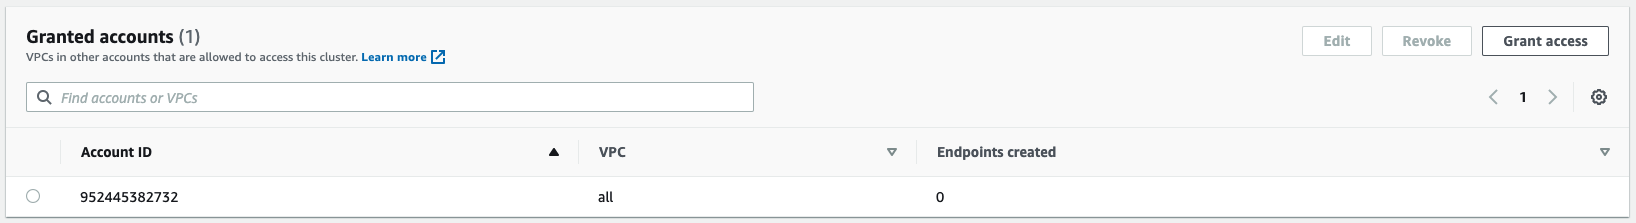
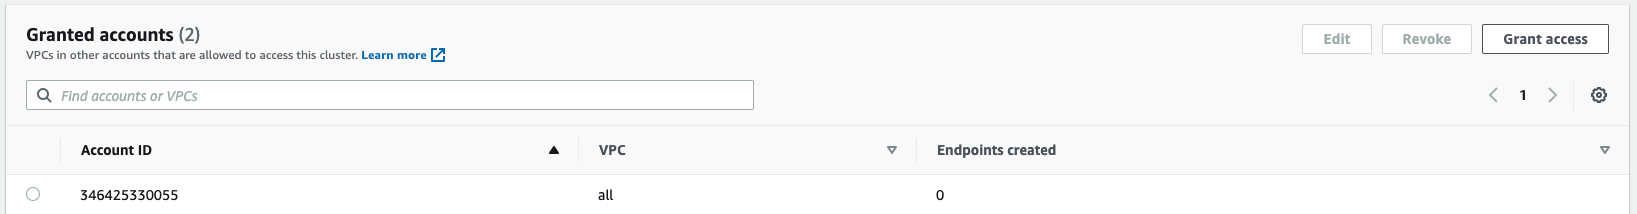
updates to multi-tenant privatelink setup instructions

diff --git a/website/docs/docs/get-started/privatelink/redshift-privatelink.md b/website/docs/docs/get-started/privatelink/redshift-privatelink.md
@@ -5,8 +5,13 @@ description: "Configuring PrivateLink for Redshift"
 sidebar_label: "PrivateLink for Redshift"
 ---
 
+AWS provides two different ways to create a PrivateLink VPC endpoint for a Redshift cluster that is running in another VPC: 
+- [Redshift-managed PrivateLink Endpoints](https://docs.aws.amazon.com/redshift/latest/mgmt/managing-cluster-cross-vpc.html)
+- [Redshift Interface-type PrivateLink Endpoints](https://docs.aws.amazon.com/redshift/latest/mgmt/security-private-link.html)
 
-The first step is to grant access to dbt Cloud in the Redshift database cluster:
+dbt Cloud supports both types of endpoints, but there are a number of [considerations](https://docs.aws.amazon.com/redshift/latest/mgmt/managing-cluster-cross-vpc.html#managing-cluster-cross-vpc-considerations) to take into account when deciding which endpoint type to use. Redshift-managed provides a far simpler setup with no additional cost, which might make it the preferred option for many, but may not be an option in all environments. Based on these criteria, you will need to determine which is the right type for your system. Follow the instructions from the section below that corresponds to your chosen endpoint type.
+
+## Configuring Redshift-managed PrivateLink
 
 1. On the running Redshift cluster, select the **Properties** tab.
 
@@ -16,63 +21,79 @@ The first step is to grant access to dbt Cloud in the Redshift database cluster:
 
 <Lightbox src="/img/docs/dbt-cloud/redshiftprivatelink2.png" title="Redshift granted accounts"/>
 
-3. Enter the AWS account ID:
+3. Enter the AWS account ID: `346425330055` - _NOTE: This account ID only applies to dbt Cloud Multi-Tenant environments. For Virtual Private/Single-Tenant account IDs please contact [Support](https://docs.getdbt.com/guides/legacy/getting-help#dbt-cloud-support)._
 
-- Use `346425330055` for multi-tenant deployment environments in dbt Cloud
-- Use `952445382732` for single-tenant deployment environments in dbt Cloud
-
-Optionally, provide the VPC ID for the single-tenant instance or regional multi-tenant PrivateLink VPC. Otherwise, choose **Grant access to all VPCs**.
+4. Choose **Grant access to all VPCs** &mdash;or&mdash; (optional) contact [Support](https://docs.getdbt.com/guides/legacy/getting-help#dbt-cloud-support) for regional VPC ID to designate in **Grant access to specific VPCs**
 
 <Lightbox src="/img/docs/dbt-cloud/redshiftprivatelink3.png" title="Redshift grant access"/>
 
-4. Then, contact the dbt Cloud support team and provide them with your:
+5. Add the required information to the template below, and submit your request to [dbt Support](https://docs.getdbt.com/guides/legacy/getting-help#dbt-cloud-support):
 
-- Cluster name
-- AWS account ID (where the Redshift cluster is hosted)
-- Cluster AWS region
+```
+Subject: New Multi-Tenant PrivateLink Request
+- Type: Redshift-managed
+- Redshift cluster name:
+- Redshift cluster AWS account ID:
+- Redshift cluster AWS Region (`us-east-1`, `eu-west-2`, etc.):
+- dbt Cloud multi-tenant environment (US, EMEA, AU):
+```
 
-## Configuring Interface VPC PrivateLink
+dbt Labs will work on your behalf to complete the PrivateLink setup. Please allow 1-2 business days for this process to complete. Support will contact you when the service is available.
 
+## Configuring Redshift Interface-type PrivateLink
+
+### 1. Provision AWS Resources
 
 Creating an Interface VPC PrivateLink connection requires creating multiple AWS resources in the account containing the Redshift cluster:
 
 - **Security Group** &mdash; If you are connecting to an existing Redshift cluster, this likely already exists, however, you might need to add or modify Security Group rules to accept traffic from the Network Load Balancer (NLB) created for this Endpoint Service.
-- **Target Group** &mdash; The Target Group gets attached to the NLB to tell it where to route requests. There are various target types available for NLB Target Groups, but you will use the IP address.
+- **Target Group** &mdash; The Target Group will be attached to the NLB to tell it where to route requests. There are various target types available for NLB Target Groups, but you will use the IP address.
     
-Use IP addresses from the Redshift cluster’s **Network Interfaces**, _not_ IPs listed in the **Node IP addresses** section as those can change.
+    - Target Type: **IP**
 
-There is likely only one Network Interface (NI) to start, but if the cluster fails over to another availability zone (AZ), a new NI will be created for that AZ as well. The NI IP from the original AZ should still work, but the new NI IP can also be added to the Target Group if desired. Just note that the NLB will need to add that AZ as well. Once created, an NI shouldn't change (this is our observation from testing, but is not officially documented anywhere).
+        Notes:
+        - Use IP addresses from the Redshift cluster’s **Network Interfaces**, _not_ IPs listed in the **Node IP addresses** section as those can change.
+        <Lightbox src="/img/docs/dbt-cloud/redshiftprivatelink4.png" title="Target type: IP address"/>
 
-The cluser must be configured to use TCP protocol. 
+        - There is likely only one Network Interface (NI) to start, but if the cluster fails over to another availability zone (AZ), a new NI will be created for that AZ as well. The NI IP from the original AZ should still work, but the new NI IP can also be added to the Target Group if desired. Just note that the NLB will need to add that AZ as well. Once created, an NI shouldn't change (this is our observation from testing, but is not officially documented anywhere).
 
-<Lightbox src="/img/docs/dbt-cloud/redshiftprivatelink4.png" title="Target type: IP address"/>
+    - Target Group protocol: **TCP** 
 
-- Network Load Balancer (NLB) &mdash; Requires creating a Listener that attaches to the newly created Target Group for port `5439`
-- Endpoint Service &mdash; Attach to the newly created NLB.
-    - Acceptance required (optional) &mdash; Requires you to [accept our connection request](https://www.notion.so/Redshift-Interface-PrivateLink-Setup-Guide-dabac5da3f7c4b0b91716b37820f5aeb) after dbt creates the endpoint.
-    - Private DNS name (optional) &mdash; This hasn't been tested and might not be supported. Please contact dbt Cloud support if you require this field. 
+- **Network Load Balancer (NLB)** &mdash; Requires creating a Listener that attaches to the newly created Target Group for port `5439`
+- **VPC Endpoint Service** &mdash; Attach to the newly created NLB.
+    - Acceptance required (optional) &mdash; Requires you to [accept our connection request](https://docs.aws.amazon.com/vpc/latest/privatelink/configure-endpoint-service.html#accept-reject-connection-requests) after dbt creates the endpoint.
 
-### Grant AWS account access to the VPC
+### 2. Grant dbt AWS Account access to the VPC Endpoint Service
 
 On the provisioned VPC endpoint service, click the **Allow principals** tab. Click **Allow principals** to grant access. Enter the ARN of the root user in the appropriate production AWS account and save your changes.
 
-| Type | Principal |
-| --- | --- |
-| Single-Tenant Prod | arn:aws:iam::952445382732:root |
-| Multi-Tenant Prod | arn:aws:iam::346425330055:root |
+ - Principal: `arn:aws:iam::346425330055:root`
 
 <Lightbox src="/img/docs/dbt-cloud/redshiftprivatelink5.png" title="Enter ARN"/>
+
+### 3. Obtain VPC Endpoint Service Name
 
 Once the VPC Endpoint Service is provisioned, you can find the service name in the AWS console by navigating to **VPC** → **Endpoint Services** and selecting the appropriate endpoint service. You can copy the service name field value and include it in your communication to dbt Cloud support.
 
 <Lightbox src="/img/docs/dbt-cloud/redshiftprivatelink6.png" title="Get service name field value"/>
 
-## Configuring new endpoints with PrivateLink
+### 4. Add the required information to the template below, and submit your request to [dbt Support](https://docs.getdbt.com/guides/legacy/getting-help#dbt-cloud-support):
+```
+Subject: New Multi-Tenant PrivateLink Request
+- Type: Redshift Interface-type
+- VPC Endpoint Service Name:
+- Redshift cluster AWS Region (`us-east-1`, `eu-west-2`, etc.):
+- dbt Cloud multi-tenant environment (US, EMEA, AU):
+```
+
+dbt Labs will work on your behalf to complete the PrivateLink setup. Please allow 1-2 business days for this process to complete. Support will contact you when the endpoint is available.
+
+## Create Connection in dbt Cloud
 
 Once dbt Cloud support completes the configuration, you can start creating new connections using PrivateLink.
 
 1. Navigate to **settings** → **Create new project** → select **Redshift**
-2. Select **Private** for a private connection.
-3. Select the private endpoint from the dropdown. When you do this, dbt Cloud automatically populates the hostname/account field.
+2. You will see two radio buttons: **Public** and **Private.** Select **Private**. 
+3. Select the private endpoint from the dropdown (this will automatically populate the hostname/account field).
 4. Configure the remaining data platform details.
 5. Test your connection and save it.

diff --git a/website/docs/docs/get-started/privatelink/about-privatelink.md b/website/docs/docs/get-started/privatelink/about-privatelink.md
@@ -8,46 +8,12 @@ sidebar_label: "About PrivateLink"
 This feature is currently in Private Preview, and these instructions are specific to dbt Cloud multi-tenant environments on AWS. 
 :::
 
-PrivateLink enables you to connect your data platform hosted on AWS to a dbt Cloud multi-tenant environment over the AWS backbone using the PrivateLink technology. PrivateLink allows dbt Cloud customers to meet security and compliance controls as it restricts information shared between dbt Cloud and the data platform from reaching the public internet. This feature is supported in most regions across NA, Europe, and Asia, but [contact us](https://www.getdbt.com/contact/) if you have questions about availability. 
+PrivateLink enables a private connection from dbt Cloud multi-tenant environment to your data platform hosted on AWS using [AWS PrivateLink](https://aws.amazon.com/privatelink/) technology. PrivateLink allows dbt Cloud customers to meet security and compliance controls as it restricts information shared between dbt Cloud and your data platform from traversing the public internet. This feature is supported in most regions across NA, Europe, and Asia, but [contact us](https://www.getdbt.com/contact/) if you have questions about availability. 
 
-To learn more, refer to the [AWS PrivateLink documentation](https://aws.amazon.com/privatelink/).
+### Configuring PrivateLink
 
-dbt Cloud supports these data platforms that you can use the AWS PrivateLink feature with: 
-
-- Redshift
-- Snowflake
-- Databricks
-
-## Configure PrivateLink
-
-You need to contact the dbt Cloud support team to complete the integration. It is not a self-service feature at this time. Ensure that the subject contains "Multi-tenant PrivateLink" in some form. Please allow 1-2 business days for our teams to complete the setup on our side. 
-
-### Set up
-
-dbt provisions the infrastructure pieces to ensure there are PrivateLink endpoints for a given account. Enabling this ensures connections can be configured as _private_ and only communicates with the data platform over a PrivateLink. Once enabled, there are two available data platform connection types in dbt Cloud: public and private. 
-
-Public connections are the classic connections that work today which communicate with the data warehouse over the public internet. Private connections are secured by PrivateLink and will always guarantee that all connections to the data platform are secured with AWS PrivateLink. dbt Cloud support configures the private endpoints on the backend once the infrastructure team provisions all the required services. Please contact them with your organization name and which instance it's hosted in (such as EMEA, NA, and AU).  
-
-Provide the support team with the following information: 
-
-- dbt Cloud Account ID
-- Data platform (such as Snowflake and Redshift)
-- PrivateLink name
-- Number of endpoints &mdash; Typically you only need one but if you have multiple warehouses or projects that require their own PrivateLink, you may need multiple endpoints.
-- Any additional information specific to your data platform. 
-
-Instructions for configuring the various data platform providers are unique. The following guides outline the steps:
+dbt Cloud supports the following data platforms for use with the PrivateLink feature. Instructions for enabling PrivateLink for the various data platform providers are unique. The following guides will walk you through the necessary steps, including working with [dbt Support](https://docs.getdbt.com/guides/legacy/getting-help#dbt-cloud-support) to complete the connection in the dbt private network and setting up the endpoint in dbt Cloud.
 
 - [Redshift](/redshift-privatelink)
 - [Snowflake](/snowflake-privatelink)
 - [Databricks](/databricks-privatelink)
-
-### Configure new endpoints with PrivateLink
-
-Once dbt Cloud support completes the configuration, you can begin creating new connections using PrivateLink: 
-
-1. Navigate to **Settings** → **Create new project** → select the supported data platform (Snowflake/Databricks/Redshift). 
-2. Select **Private** for a private connection.
-3. Select the private endpoint from the dropdown. When you do this, dbt Cloud automatically populates the hostname/account field.
-4. Configure the remaining data platform details.
-5. Test your connection and save it.

diff --git a/website/docs/docs/get-started/privatelink/snowflake-privatelink.md b/website/docs/docs/get-started/privatelink/snowflake-privatelink.md
@@ -5,25 +5,37 @@ description: "Configuring PrivateLink for Snowflake"
 sidebar_label: "PrivateLink for Snowflake"
 ---
 
+The following steps will walk you through the setup of a Snowflake AWS PrivateLink endpoint in the dbt Cloud multi-tenant environment.
 
-To complete the PrivateLink connection between the dbt and your private networks, first contact dbt Labs support to obtain the AWS or Azure `resource ID`. 
+## Configure PrivateLink
 
-Then, you must open a support case with Snowflake so they can grant access to dbt’s account or subscription. Snowflake teams prefer that you open these support cases directly, rather than dbt Labs acting on your behalf. For more information, you can refer to [Snowflake's article about setting up](https://community.snowflake.com/s/article/HowtosetupPrivatelinktoSnowflakefromCloudServiceVendors). Provide them with your dbt Cloud account ID along with any other information requested in the article. 
-
-You need to have `ACCOUNTADMIN` access to the Snowflake instance to complete these steps.
+1. Open a support case with Snowflake to allow access from the dbt Cloud AWS account
+- Snowflake prefers that the account owner opens the support case directly, rather than dbt Labs acting on their behalf. For more information, you can refer to [Snowflake's knowledge base article](https://community.snowflake.com/s/article/HowtosetupPrivatelinktoSnowflakefromCloudServiceVendors)
+- Provide them with your dbt Cloud account ID along with any other information requested in the article.
+  - AWS account ID: `346425330055` - _NOTE: This account ID only applies to dbt Cloud Multi-Tenant environments. For Virtual Private/Single-Tenant account IDs please contact [Support](https://docs.getdbt.com/guides/legacy/getting-help#dbt-cloud-support)._
+- You need to have `ACCOUNTADMIN` access to the Snowflake instance to complete these steps.
 
 <Lightbox src="/img/docs/dbt-cloud/snowflakeprivatelink1.png" title="Open snowflake case"/>
 
-Run the Snowflake system function [SYSTEM$GET_PRIVATELINK_CONFIG](https://docs.snowflake.com/en/sql-reference/functions/system_get_privatelink_config.html) and provide the output to the dbt Labs support team. 
+2. Run the Snowflake system function [SYSTEM$GET_PRIVATELINK_CONFIG](https://docs.snowflake.com/en/sql-reference/functions/system_get_privatelink_config.html) and copy the output
 
-dbt Labs will work on your behalf to complete the PrivateLink setup. Please allow 1-2 business days for this process to complete. Support will contact you when the service is available. 
+3. Add the required information to the template below, and submit your request to  [dbt Support](https://docs.getdbt.com/guides/legacy/getting-help#dbt-cloud-support):
 
-## Configure new endpoints with PrivateLink
+```
+Subject: New Multi-Tenant PrivateLink Request
+- Type: Snowflake
+- SYSTEM$GET_PRIVATELINK_CONFIG output:
+- dbt Cloud multi-tenant environment (US, EMEA, AU):
+```
+
+dbt Labs will work on your behalf to complete the PrivateLink setup. Please allow 1-2 business days for this process to complete. Support will contact you when the endpoint is available. 
+
+## Create Connection in dbt Cloud
 
 Once dbt Cloud support completes the configuration, you can start creating new connections using PrivateLink. 
 
-1. Navigate to settings → Create new project → select Redshift
-2. Select **Private** for a private connection.
-3. Select the private endpoint from the dropdown. When you do this, dbt Cloud automatically populates the hostname/account field.
+1. Navigate to **Settings** → **Create new project** → select **Snowflake**. 
+2. You will see two radio buttons: **Public** and **Private.** Select **Private**. 
+3. Select the private endpoint from the dropdown (this will automatically populate the hostname/account field).
 4. Configure the remaining data platform details.
 5. Test your connection and save it.

diff --git a/website/docs/docs/get-started/privatelink/databricks-privatelink.md b/website/docs/docs/get-started/privatelink/databricks-privatelink.md
@@ -5,16 +5,26 @@ description: "Configuring PrivateLink for Databricks"
 sidebar_label: "PrivateLink for Databricks"
 ---
 
-Locate your [Databricks Workspace ID](https://kb.databricks.com/en_US/administration/find-your-workspace-id#:~:text=When%20viewing%20a%20Databricks%20workspace,make%20up%20the%20workspace%20ID) and provide it to dbt Cloud support along with your other [PrivateLink setup information](/about-privatelink#set-up). 
+The following steps will walk you through the setup of a Databricks AWS PrivateLink endpoint in the dbt Cloud multi-tenant environment.
 
-Once dbt Cloud support has notified you that setup is complete, [register the VPC endpoint in Databricks](https://docs.databricks.com/administration-guide/cloud-configurations/aws/privatelink.html#step-3-register-privatelink-objects-and-attach-them-to-a-workspace) and attach it to the workspace.
+## Configure PrivateLink
 
+1. Locate your [Databricks Workspace ID](https://kb.databricks.com/en_US/administration/find-your-workspace-id#:~:text=When%20viewing%20a%20Databricks%20workspace,make%20up%20the%20workspace%20ID)
+2. Add the required information to the template below, and submit your request to [dbt Support](https://docs.getdbt.com/guides/legacy/getting-help#dbt-cloud-support): 
+```
+Subject: New Multi-Tenant PrivateLink Request
+- Type: Databricks
+- Databricks workspace name:
+- Databricks cluster AWS Region (us-east-1, eu-west-2, etc.):
+- dbt Cloud multi-tenant environment (US, EMEA, AU):
+```
+3. Once dbt Cloud support has notified you that setup is complete, [register the VPC endpoint in Databricks](https://docs.databricks.com/administration-guide/cloud-configurations/aws/privatelink.html#step-3-register-privatelink-objects-and-attach-them-to-a-workspace) and attach it to the workspace
 
-### Configuring new endpoints with PrivateLink
+## Create Connection in dbt Cloud
 
-after you've completed the setup in the Databricks environment, you will be able to configure a private endpoint in dbt Cloud:
+Once you've completed the setup in the Databricks environment, you will be able to configure a private endpoint in dbt Cloud:
 
-1. Navigate to **Settings** → **Create new project** → select the **Databricks**. 
+1. Navigate to **Settings** → **Create new project** → select **Databricks**. 
 2. You will see two radio buttons: **Public** and **Private.** Select **Private**. 
 3. Select the private endpoint from the dropdown (this will automatically populate the hostname/account field).
 4. Configure the remaining data platform details.
